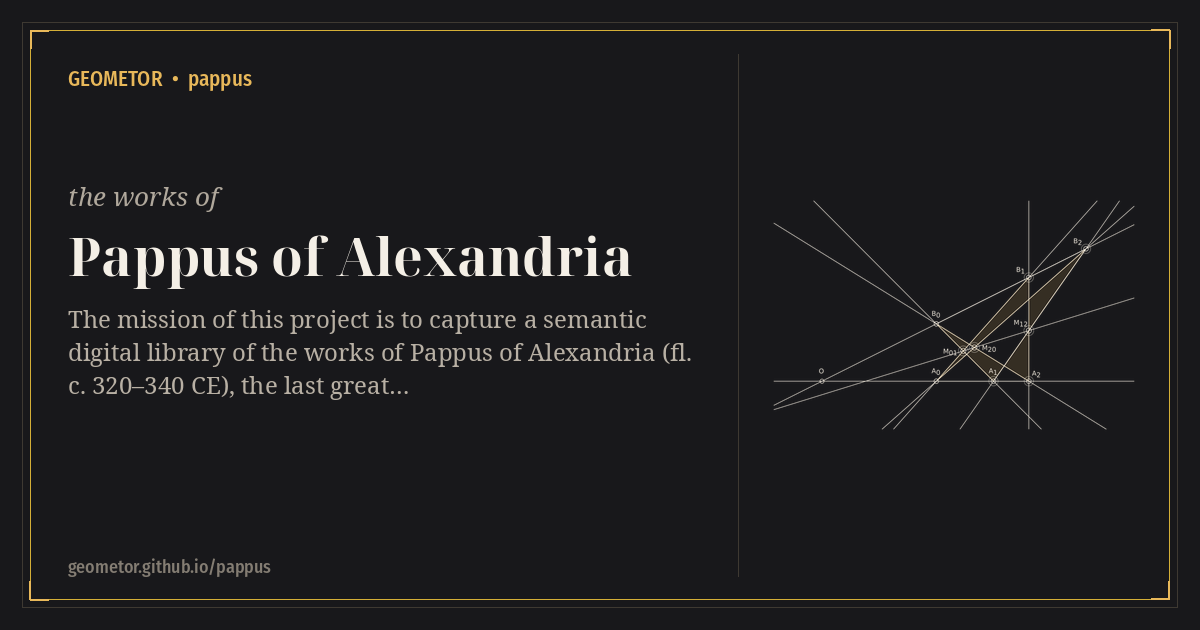
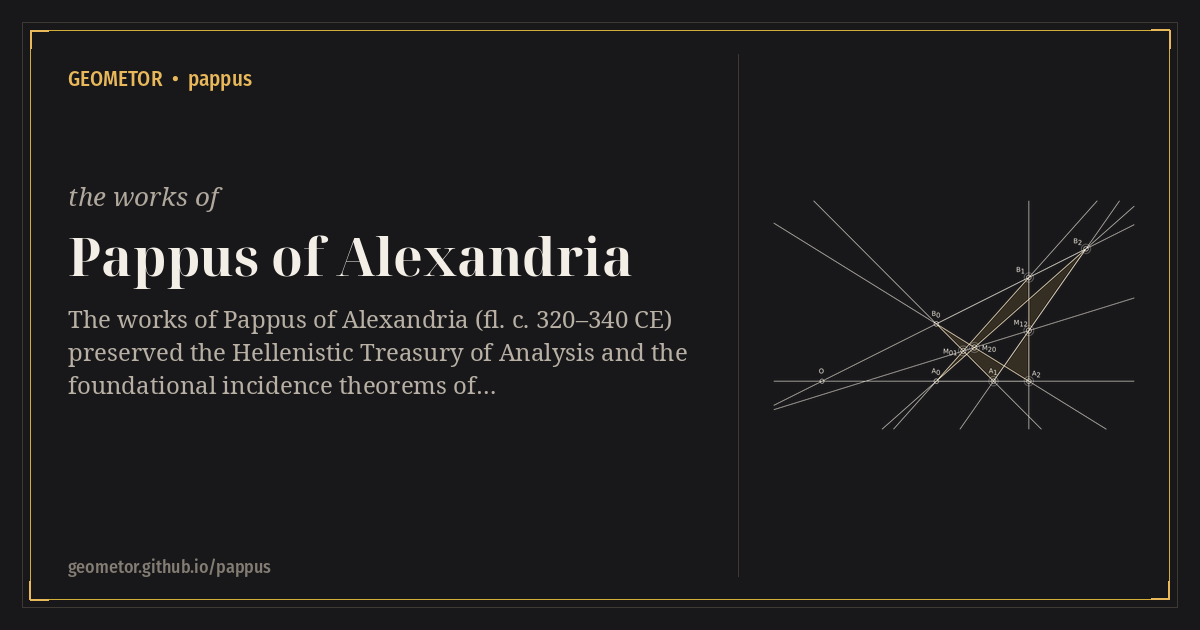
docs: add construction hero images, elevate English titles with native title tracks, and standardize track menus

Changed region(s): [[0.0617, 0.4825, 0.5858, 0.6333]]

diff --git a/README.rst b/README.rst
@@ -3,17 +3,22 @@ GEOMETOR • pappus
 
 **Visit the Online Archive:** https://geometor.github.io/pappus/
 
-**Pappus of Alexandria • Synagoge (Mathematical Collection) • semantic digital archive**
+.. image:: docsrc/_static/constructions/golden_pappus.svg
+   :alt: GEOMETOR • pappus featured geometric construction
+   :target: https://geometor.github.io/pappus/
+   :align: center
+
+**Pappus of Alexandria • Mathematical Collection • semantic digital archive**
 
 Mission
 -------
 
-``geometor/pappus`` is part of the interconnected `GEOMETOR <https://geometor.com>`_ semantic digital archive. It unites a four-track bilingual Book Codex of Pappus of Alexandria's eight-book *Synagoge* (*Μαθηματικὴ Συναγωγή*) with an extensive computational catalog of constructive projective theorems. Through addressable semantic units, calibrated theme-adaptive vector diagrams, primary-source folio provenance, and exact SymPy symbolic algebra, this repository bridges ancient Greek geometry and mechanics with the modern projective theorems of Steiner, Pascal, and Desargues across the GEOMETOR corpus.
+``geometor/pappus`` is part of the interconnected `GEOMETOR <https://geometor.com>`_ semantic digital archive. It unites a four-track bilingual Book Codex of Pappus of Alexandria's eight-book *Mathematical Collection* (*Μαθηματικὴ Συναγωγή*) with an extensive computational catalog of constructive projective theorems. Through addressable semantic units, calibrated theme-adaptive vector diagrams, primary-source folio provenance, and exact SymPy symbolic algebra, this repository bridges ancient Greek geometry and mechanics with the modern projective theorems of Steiner, Pascal, and Desargues across the GEOMETOR corpus.
 
 Books in This Archive
 ---------------------
 
-- **`Synagoge (Mathematical Collection) <https://geometor.github.io/pappus/synagoge/>`_** — Critical bilingual edition of Books III, IV, V, VII, and VIII surveying classical Greek geometry, three means in a semicircle, the Arbelos circle chain, honeycomb isoperimetry, and the Hellenistic Treasury of Analysis (c. 340 CE).
+- **`Mathematical Collection <https://geometor.github.io/pappus/synagoge/>`_** — Critical bilingual edition of Books III, IV, V, VII, and VIII surveying classical Greek geometry, three means in a semicircle, the Arbelos circle chain, honeycomb isoperimetry, and the Hellenistic Treasury of Analysis (c. 340 CE).
 - **`Theorems <https://geometor.github.io/pappus/theorems/>`_** — Constructive projective theorems including Pappus's Hexagon Theorem, Steiner's six-line configuration, cross-ratio invariants, harmonic conjugates, and Pascal's *Hexagrammum Mysticum*.
 
 Projective Geometry & Classical Mechanics

diff --git a/docsrc/synagoge/title-el.rst b/docsrc/synagoge/title-el.rst
@@ -1,0 +1,45 @@
+:type: book_title
+:layout: book
+:title: Πάππου Ἀλεξανδρέως Μαθηματικὴ Συναγωγή
+:book_title: Πάππου Ἀλεξανδρέως Μαθηματικὴ Συναγωγή
+:book_subtitle: Βιβλία Γʹ, Δʹ, Εʹ, Ζʹ, Ηʹ (ed. F. Hultsch, 1876–1878)
+:author: Πάππος ὁ Ἀλεξανδρεύς
+:toc_label: Πίναξ
+:persons_label: Πρόσωπα
+:bibliography_label: Βιβλιογραφία
+:glossary_label: Γλωσσάριον
+:tracks: English: index | Greek: title-el
+
+.. _synagoge-title-el:
+
+=============================================
+Πάππου Ἀλεξανδρέως Μαθηματικὴ Συναγωγή
+=============================================
+
+.. rubric:: *Pappi Alexandrini Collectionis quae supersunt* — Ἔκδοσις Friedrich Hultsch (Βερολῖνον: Weidmann, 1876–1878)
+
+.. container:: title-page
+
+   | **Συγγραφεύς:** :person:`Πάππος ὁ Ἀλεξανδρεύς <pappus>` (περὶ τὸ 320–340 μ.Χ.)
+   | **Κριτικὴ ἔκδοσις:** :person:`Friedrich Hultsch <hultsch>` (1876–1878)
+
+----
+
+Πίναξ τῶν Περιεχομένων
+----------------------
+
+* **Βιβλίον Γʹ**: :doc:`book_03/index`
+* **Βιβλίον Δʹ**: :doc:`book_04/index`
+* **Βιβλίον Εʹ**: :doc:`book_05/index`
+* **Βιβλίον Ζʹ**: :doc:`book_07/index`
+* **Βιβλίον Ηʹ**: :doc:`book_08/index`
+
+----
+
+Κριτικὸς Μηχανισμός
+-------------------
+
+* :doc:`concordance`
+* :doc:`bibliography`
+* :doc:`persons`
+* :doc:`glossary`

diff --git a/docsrc/synagoge/index.rst b/docsrc/synagoge/index.rst
@@ -1,21 +1,23 @@
 :navigation: header
 :order: 1
 :type: book
-:nav_title: Synagoge
-:breadcrumb_title: Synagoge
+:nav_title: Mathematical Collection
+:breadcrumb_title: Mathematical Collection
 :layout: book
-:book_title: Synagoge (Mathematical Collection)
+:book_title: Mathematical Collection
 :book_subtitle: Μαθηματικὴ Συναγωγή — Pappus of Alexandria (Books III, IV, V, VII & VIII, ed. Hultsch)
 :author: Pappus of Alexandria
 :year: c. 340 CE
+:tracks: English: index | Greek: title-el
 :excerpt: Pappus's late-antique Alexandrian compendium synthesizing the Greek Treasury of Analysis, projective cross-ratio and hexagon lemmas, semicircle means, arbelos circle chains, and architectonic mechanics.
 
 .. _synagoge-codex:
 
-Synagoge
-========
+=======================
+Mathematical Collection
+=======================
 
-.. rubric:: *Μαθηματικὴ Συναγωγή* (*Mathematical Collection*) — Pappus of Alexandria
+.. rubric:: *Μαθηματικὴ Συναγωγή* (*Synagoge*) — Pappus of Alexandria
 
 .. container:: title-page
 
@@ -98,3 +100,10 @@ Scholarly Apparatus
    bibliography
    persons
    glossary
+
+.. toctree::
+   :maxdepth: 1
+   :hidden:
+   :caption: Title Pages
+
+   title-el
